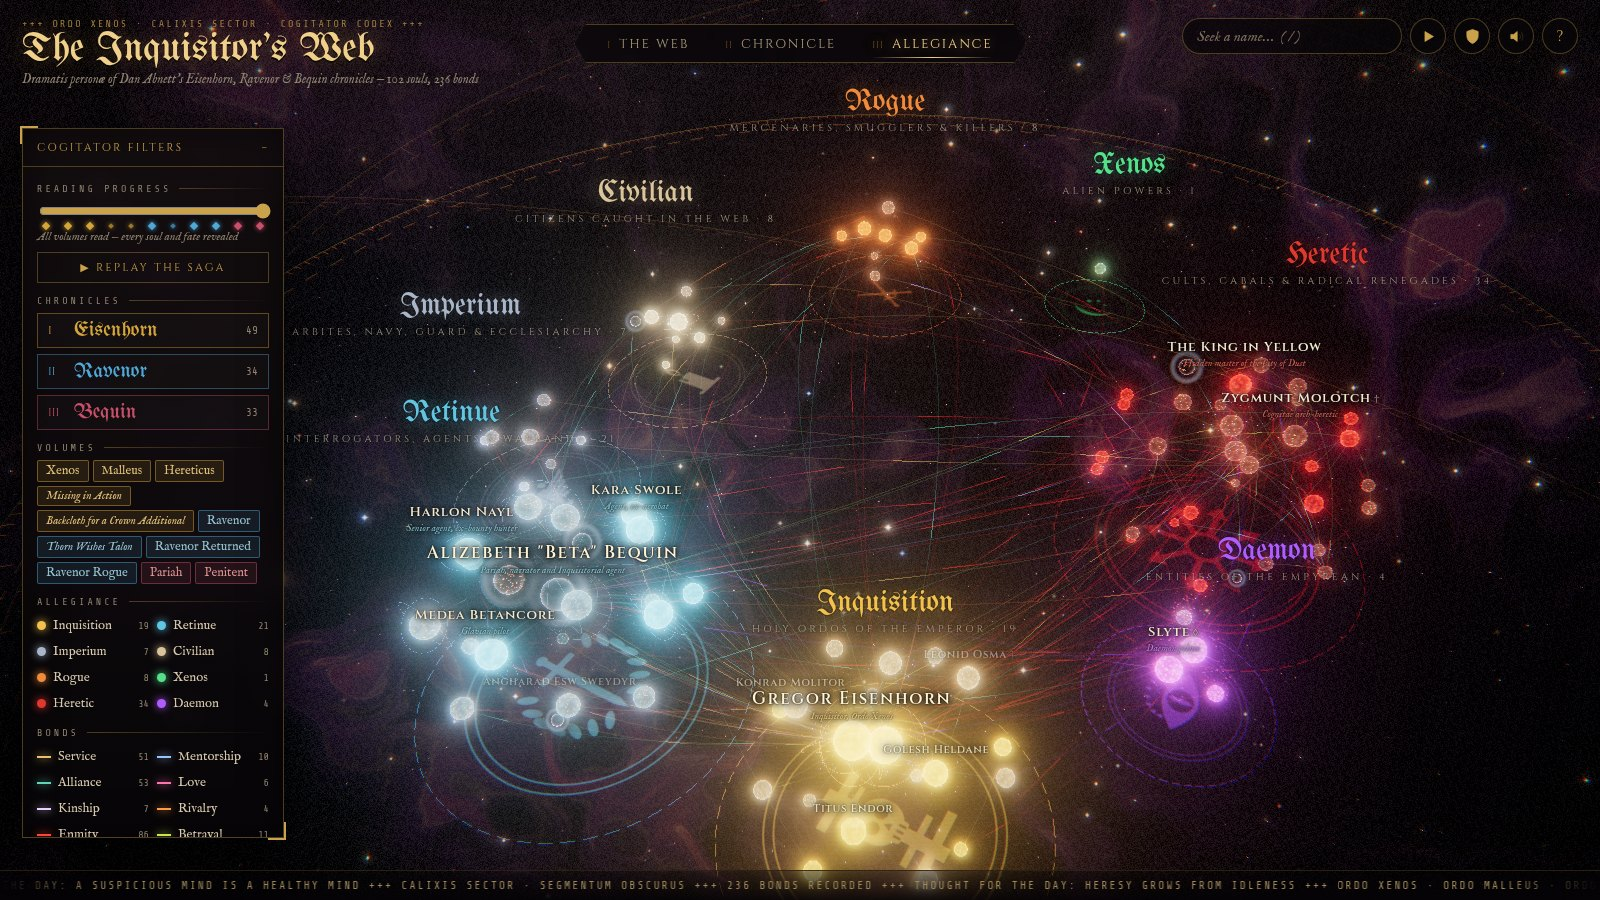
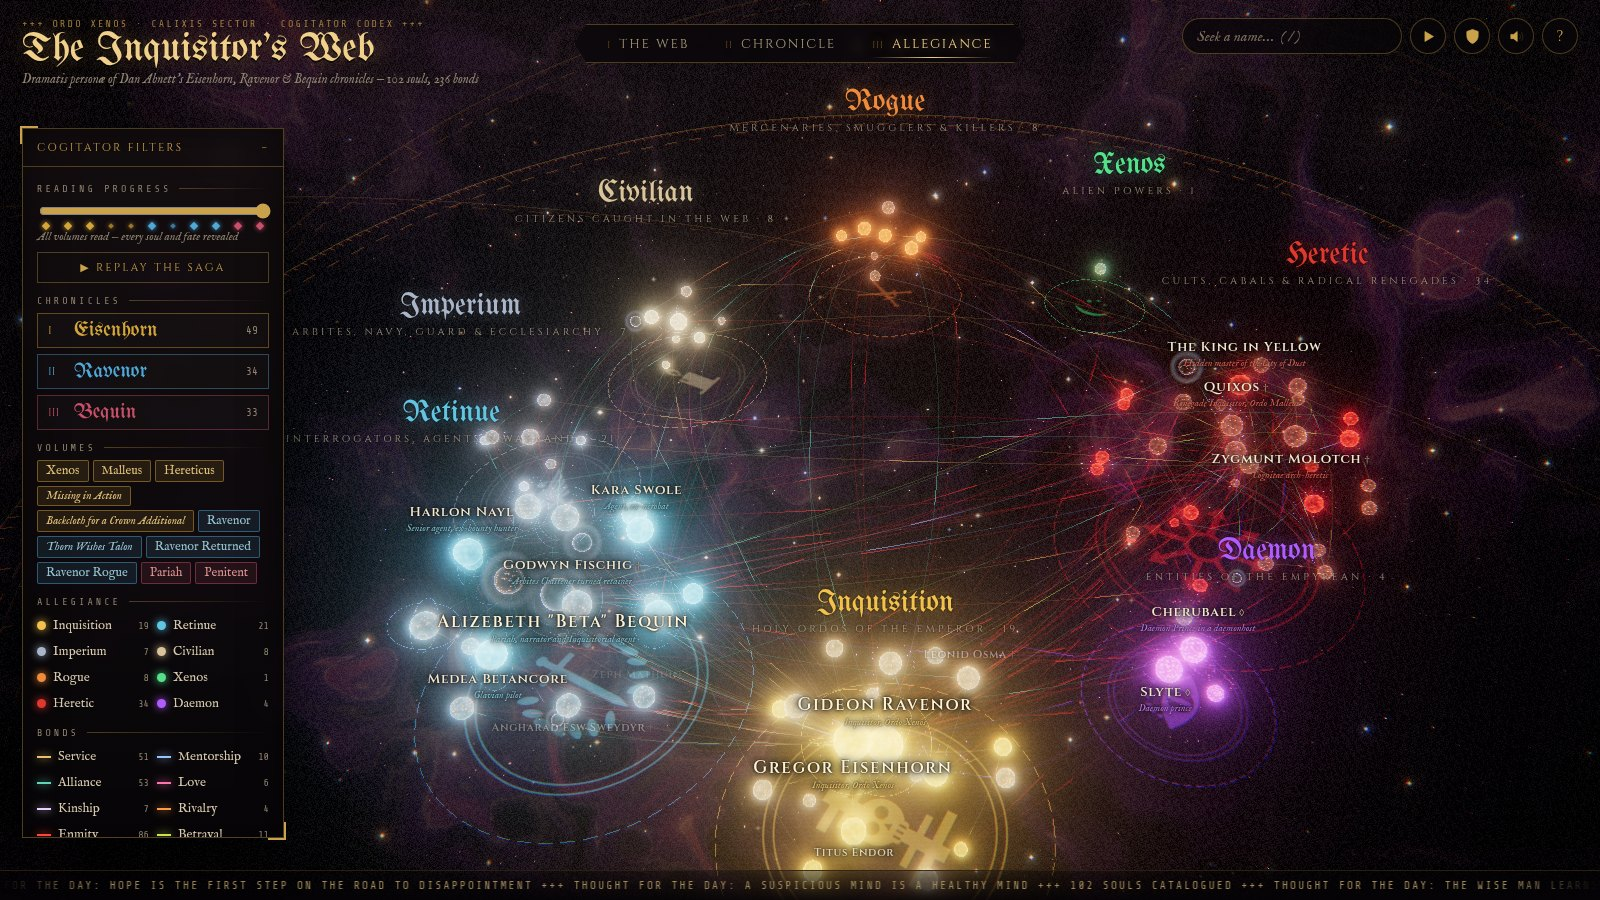
Monogram seals, auspex pulse, floor sigil, first-visit hint, Glossia easter egg

diff --git a/src/scene/world.ts b/src/scene/world.ts
@@ -2,7 +2,7 @@ import * as THREE from 'three';
 import { bonds, bondsOf, bookById, books, characters, charById, other, roleOf, seriesOf } from '../data/codex';
 import { spoilers } from '../ui/spoilers';
 import type { BondKind, Faction, SeriesId } from '../data/types';
-import { BONDS, BOND_ORDER, FACTION_ORDER, SERIES, SERIES_ORDER } from '../data/theme';
+import { BONDS, BOND_ORDER, FACTIONS, FACTION_ORDER, SERIES, SERIES_ORDER } from '../data/theme';
 import { drawSeal } from '../ui/sigils';
 import { Backdrop } from './background';
 import { Decor } from './decor';
@@ -66,6 +66,8 @@ export class World {
   private seal: THREE.Sprite;
   private sealTex = new Map<string, Promise<THREE.Texture>>();
   private sealAlpha = 0;
+  private pulse: THREE.Sprite;
+  private pulseT = 1;
   private raycaster = new THREE.Raycaster();
   private pointer = new THREE.Vector2();
   private hits: THREE.Object3D[] = [];
@@ -93,6 +95,11 @@ export class World {
     );
     this.seal.renderOrder = -1;
     stage.scene.add(this.seal);
+    this.pulse = new THREE.Sprite(
+      new THREE.SpriteMaterial({ map: ringTexture(), transparent: true, depthWrite: false, blending: THREE.AdditiveBlending, opacity: 0 }),
+    );
+    this.pulse.visible = false;
+    stage.scene.add(this.pulse);
 
     const lay = layouts().web;
     for (const n of this.nodes.values()) n.place(lay.get(n.c.id)!.clone().multiplyScalar(0.02));
@@ -256,6 +263,9 @@ export class World {
     this.stage.taint = sc?.psy === 'daemon' ? 0.55 : 0;
     if (!id) return;
     if (fly) this.focus(id);
+    // an auspex ping ripples out from the chosen soul
+    this.pulseT = 0;
+    this.pulse.material.color.set(FACTIONS[charById.get(id)!.faction].color);
     let pending = this.sealTex.get(id);
     if (!pending) {
       this.seal.material.map = null;
@@ -509,6 +519,14 @@ export class World {
       if (sel.moving && !this.stage.flying) this.stage.controls.target.lerp(sel.position, 0.08);
     }
     this.seal.material.opacity = this.sealAlpha * 0.75;
+    if (this.pulseT < 1 && sel) {
+      this.pulseT = Math.min(1, this.pulseT + dt / 1.6);
+      const k = 1 - Math.pow(1 - this.pulseT, 3);
+      this.pulse.visible = true;
+      this.pulse.position.copy(sel.position);
+      this.pulse.scale.setScalar(sel.radius * (3 + k * 30));
+      this.pulse.material.opacity = (1 - this.pulseT) * 0.8;
+    } else this.pulse.visible = false;
     this.seal.material.rotation = -t * 0.08;
 
     // gentle idle drift
@@ -699,4 +717,19 @@ export class World {
       }
     }
   }
+}
+
+function ringTexture() {
+  const s = 256;
+  const cv = document.createElement('canvas');
+  cv.width = cv.height = s;
+  const g = cv.getContext('2d')!;
+  const grd = g.createRadialGradient(s / 2, s / 2, s * 0.36, s / 2, s / 2, s / 2);
+  grd.addColorStop(0, 'rgba(255,255,255,0)');
+  grd.addColorStop(0.7, 'rgba(255,255,255,0.9)');
+  grd.addColorStop(0.8, 'rgba(255,255,255,0.25)');
+  grd.addColorStop(1, 'rgba(255,255,255,0)');
+  g.fillStyle = grd;
+  g.fillRect(0, 0, s, s);
+  return new THREE.CanvasTexture(cv);
 }

diff --git a/src/main.ts b/src/main.ts
@@ -59,6 +59,15 @@ stage.freeArea = () => {
   return a;
 };
 
+let hintDone = false;
+let glossiaCall = false;
+function dismissHint() {
+  if (hintDone) return;
+  hintDone = true;
+  $('hint').classList.remove('show');
+  localStorage.setItem('iw-hinted', '1');
+}
+
 // ---------------------------------------------------------------- selection
 function select(id: string | null) {
   if (id && !spoilers.isMet(charById.get(id)!)) return;
@@ -67,6 +76,7 @@ function select(id: string | null) {
   void world.select(id);
 }
 world.onSelect = (id) => {
+  if (id) dismissHint();
   if (id) world.setCast(null);
   if (id) {
     void dossier.show(id);
@@ -122,7 +132,9 @@ world.onThread = (t, from, to) => {
       return `<i style="color:${BONDS[b.kind].color}">— ${roleOf(b, t.ids[i - 1]).toLowerCase()} —</i> ${name}`;
     })
     .join(' ');
-  caption.innerHTML = `<div class="step">+++ A thread of ${t.bonds.length} bond${t.bonds.length > 1 ? 's' : ''} +++</div><div class="chain">${chain}</div><div class="hint">Esc or click empty space to release</div>`;
+  const head = glossiaCall ? 'Thorn wishes Talon · Talon attends' : `A thread of ${t.bonds.length} bond${t.bonds.length > 1 ? 's' : ''}`;
+  glossiaCall = false;
+  caption.innerHTML = `<div class="step">+++ ${head} +++</div><div class="chain">${chain}</div><div class="hint">Esc or click empty space to release</div>`;
 };
 dossier.onBook = (id) => world.onBook(id);
 dossier.onPreview = (id, on) => {
@@ -142,10 +154,23 @@ world.onBook = (id) => {
   choir.bell();
 };
 dossier.onHide = () => world.setCast(null);
-const search = mountSearch(world, (id) => {
-  tour.stop();
-  select(id);
-});
+const search = mountSearch(
+  world,
+  (id) => {
+    tour.stop();
+    select(id);
+  },
+  () => {
+    // "Thorn wishes Talon": Eisenhorn summons Ravenor
+    tour.stop();
+    select('gregor-eisenhorn');
+    setTimeout(() => {
+      glossiaCall = true;
+      world.traceTo('gideon-ravenor');
+    }, 900);
+    choir.bell(true);
+  },
+);
 
 // ---------------------------------------------------------------- layouts
 const layoutButtons = [...document.querySelectorAll<HTMLButtonElement>('#layouts button')];
@@ -345,6 +370,11 @@ function begin(sound: boolean) {
   stage.flyTo(world.fitted(new THREE.Vector3(40, 250, 600), new THREE.Vector3(0, -10, 0)), new THREE.Vector3(0, -10, 0), 4.2, openHash);
   setTimeout(openHash, 4400);
   stage.warp = 0.8;
+  // a one-time hint, dismissed by the first selection or after a while
+  if (!localStorage.getItem('iw-hinted')) {
+    setTimeout(() => !hintDone && $('hint').classList.add('show'), 5200);
+    setTimeout(dismissHint, 22000);
+  }
 }
 
 $('intro').querySelector('.intro-rosette')!.innerHTML = emblemSVG('inquisition');

diff --git a/src/ui/sigils.ts b/src/ui/sigils.ts
@@ -220,10 +220,30 @@ export async function drawSeal(c: Character, size = 512): Promise<HTMLCanvasElem
     ang += (w / 2 + spacing) / rText;
   }
 
-  // emblem
+  // emblem as a faint watermark, the soul's blackletter monogram over it
   const img = await loadSVG(emblemSVG(c.faction, col));
-  const e = size * 0.46;
-  g.globalAlpha = 1;
+  const e = size * 0.5;
+  g.globalAlpha = 0.28;
   g.drawImage(img, -e / 2, -e / 2, e, e);
+  g.globalAlpha = 1;
+  const mono = monogram(c.name);
+  g.font = `${Math.round(size * (mono.length > 1 ? 0.26 : 0.32))}px UnifrakturMaguntia, serif`;
+  g.textAlign = 'center';
+  g.textBaseline = 'middle';
+  g.shadowColor = 'rgba(0,0,0,0.9)';
+  g.shadowBlur = size * 0.03;
+  g.fillStyle = col;
+  g.fillText(mono, 0, size * 0.015);
+  g.shadowBlur = 0;
   return cv;
+}
+
+/** Initials for a seal: "Gregor Eisenhorn" → "GE", "The King in Yellow" → "KY", "Cherubael" → "C". */
+export function monogram(name: string) {
+  const words = name
+    .replace(/["“”'‘’()]/g, ' ')
+    .split(/\s+/)
+    .filter((w) => w && !/^(the|of|in|esw|de|von|van)$/i.test(w));
+  if (words.length === 1) return words[0][0].toUpperCase();
+  return (words[0][0] + words[words.length - 1][0]).toUpperCase();
 }

diff --git a/src/ui/hud.ts b/src/ui/hud.ts
@@ -162,7 +162,7 @@ export function mountFilters(world: World) {
 }
 
 /** Name search with live highlighting in the scene and a keyboard-navigable result list. */
-export function mountSearch(world: World, select: (id: string) => void) {
+export function mountSearch(world: World, select: (id: string) => void, glossia?: () => void) {
   const input = $<HTMLInputElement>('search');
   const list = $('search-results');
   let active = 0;
@@ -220,6 +220,13 @@ export function mountSearch(world: World, select: (id: string) => void) {
       active = (active + (e.key === 'ArrowDown' ? 1 : -1) + items.length) % items.length;
       items.forEach((li, i) => li.classList.toggle('active', i === active));
     } else if (e.key === 'Enter') {
+      // Glossia: the private cant of Eisenhorn's circle
+      if (glossia && /^thorn\s+wishes\s+talon$/i.test(input.value.trim())) {
+        input.value = '';
+        run();
+        input.blur();
+        return glossia();
+      }
       if (results[active]) choose(results[active]);
     } else if (e.key === 'Escape') {
       input.value = '';

diff --git a/src/scene/decor.ts b/src/scene/decor.ts
@@ -133,6 +133,22 @@ export class Decor {
 
     }
 
+    // the Inquisitorial sigil, engraved faintly on the floor of the web
+    const floor = new THREE.Mesh(
+      new THREE.PlaneGeometry(520, 520),
+      new THREE.MeshBasicMaterial({ transparent: true, opacity: 0, depthWrite: false, blending: THREE.AdditiveBlending, side: THREE.DoubleSide }),
+    );
+    floor.rotation.x = -Math.PI / 2;
+    floor.position.y = -95;
+    void emblemCanvas('inquisition', '#c99a4b', 1024).then((cv) => {
+      const t = new THREE.CanvasTexture(cv);
+      t.colorSpace = THREE.SRGBColorSpace;
+      (floor.material as THREE.MeshBasicMaterial).map = t;
+      (floor.material as THREE.MeshBasicMaterial).needsUpdate = true;
+    });
+    this.add('web', floor, 0.09);
+    this.spinners.push(floor);
+
     // ---------- CHRONICLE: a ring per book, a central spine, lifelines and beads
     const lay = layouts().chronicle;
     let maxR = 0;

diff --git a/src/style.css b/src/style.css
@@ -1625,3 +1625,35 @@ body.pre .regions {
 .intro.gone {
   pointer-events: none;
 }
+.hint {
+  position: fixed;
+  left: 50%;
+  bottom: 44px;
+  transform: translate(-50%, 6px);
+  z-index: 4;
+  font-size: 14px;
+  font-style: italic;
+  color: #b9ac91;
+  background: rgba(6, 4, 7, 0.7);
+  border: 1px solid rgba(201, 162, 75, 0.25);
+  padding: 7px 16px;
+  border-radius: 2px;
+  opacity: 0;
+  pointer-events: none;
+  transition: opacity 1s, transform 1s;
+  white-space: nowrap;
+}
+.hint b {
+  font-family: var(--f-cap);
+  font-style: normal;
+  color: var(--gold-hi);
+}
+.hint.show {
+  opacity: 1;
+  transform: translate(-50%, 0);
+}
+@media (max-width: 760px) {
+  .hint {
+    display: none;
+  }
+}

diff --git a/index.html b/index.html
@@ -113,6 +113,7 @@
 
     <div class="tooltip" id="tooltip"></div>
     <div class="caption" id="caption"></div>
+    <div class="hint" id="hint">Click a soul to open their dossier · shift-click a second to trace the thread between them · <b>1 2 3</b> change the view · <b>?</b> for more</div>
 
     <footer class="hud-bottom">
       <div class="ticker"><div class="ticker-track" id="ticker"></div></div>

diff --git a/README.md b/README.md
@@ -51,6 +51,8 @@ Useful URL options:
   choir and struck bells). There are no samples.
 - Filters for chronicle, volume, allegiance, bond type and significance. Shift-click any filter to isolate it.
 
+The search box also answers to at least one phrase of Glossia, the private cant of Eisenhorn's circle.
+
 Keyboard: `1` `2` `3` switch views · `/` search · `T` tour · `S` spoiler ward · `M` sound · `F` filters ·
 `←`/`→` step to an associate · `Esc` release · `Home` recentre (or double-click empty space).
 
